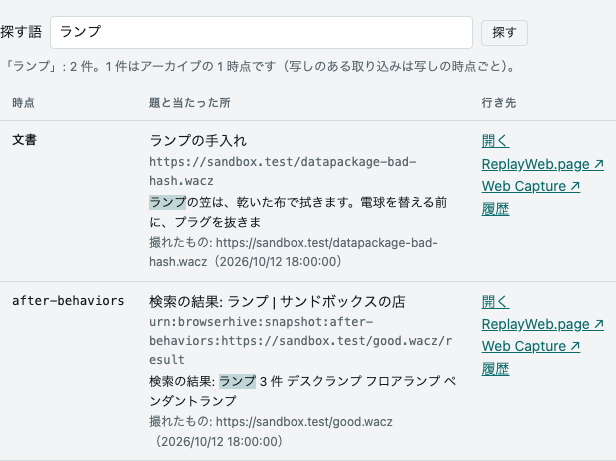
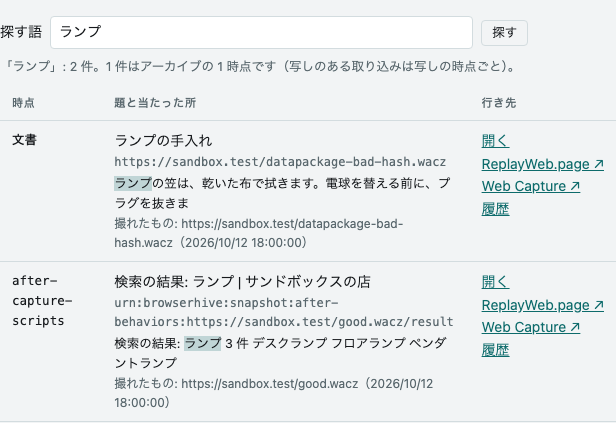
docs: 字が変わった絵を撮り直し、検索の時点の欄を「-」で折り返す（CAPTURE-506）
- tabs・start・start-js・start-read・search の 5 枚を撮り直す（ほかの 12 枚は画素が同じで、shots.json の source だけ）
- 時点の名 after-capture-scripts は after-behaviors より 6 字長く、検索の表が段組の幅をはみ出した。時点の欄だけ
  折り返してよいことにする（幅が足りれば 1 行のまま）
- 絵の全部は 405.9 KB で、枠（406 KB）の中

Claude-Session: https://claude.ai/code/session_01TRqfaQyTue9MjPXFb6Juhg

diff --git a/public/app.css b/public/app.css
@@ -336,6 +336,11 @@ a {
 #search-hits td {
   vertical-align: top;
 }
+/* 時点の欄は「-」の後で折り返してよい。after-capture-scripts（CAPTURE-506）は after-behaviors より 6 字長く、
+   1 行のままだと表が段組の幅をはみ出す。幅が足りれば 1 行のまま */
+#search-hits td:first-child {
+  white-space: normal;
+}
 #search-hits td.hit-go a {
   display: block;
 }
